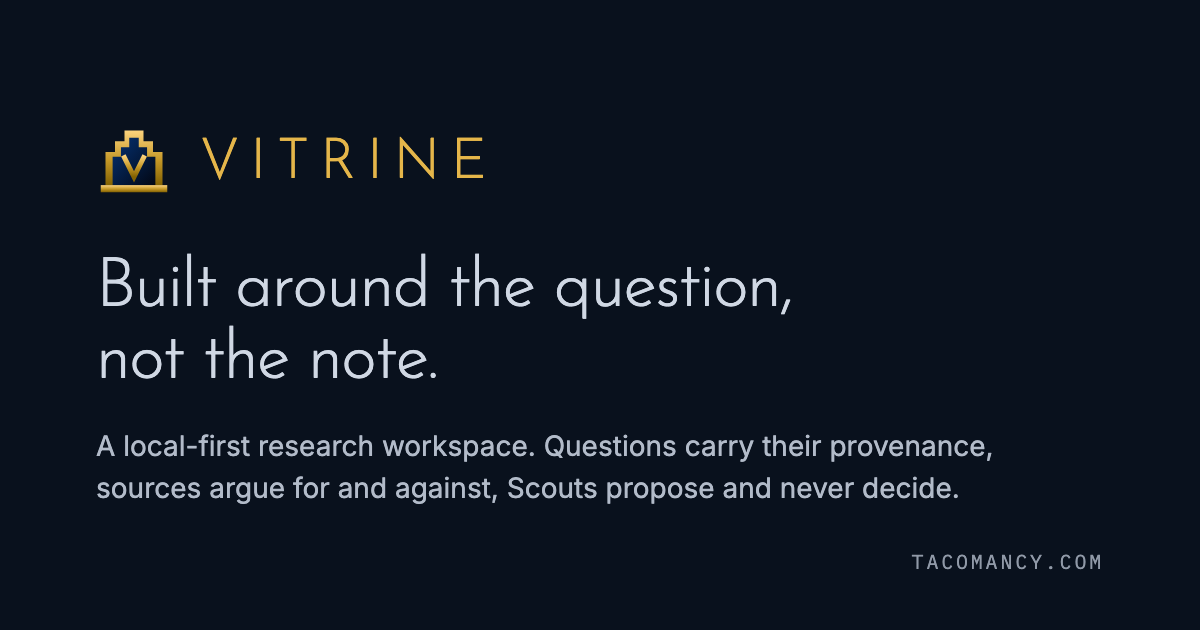
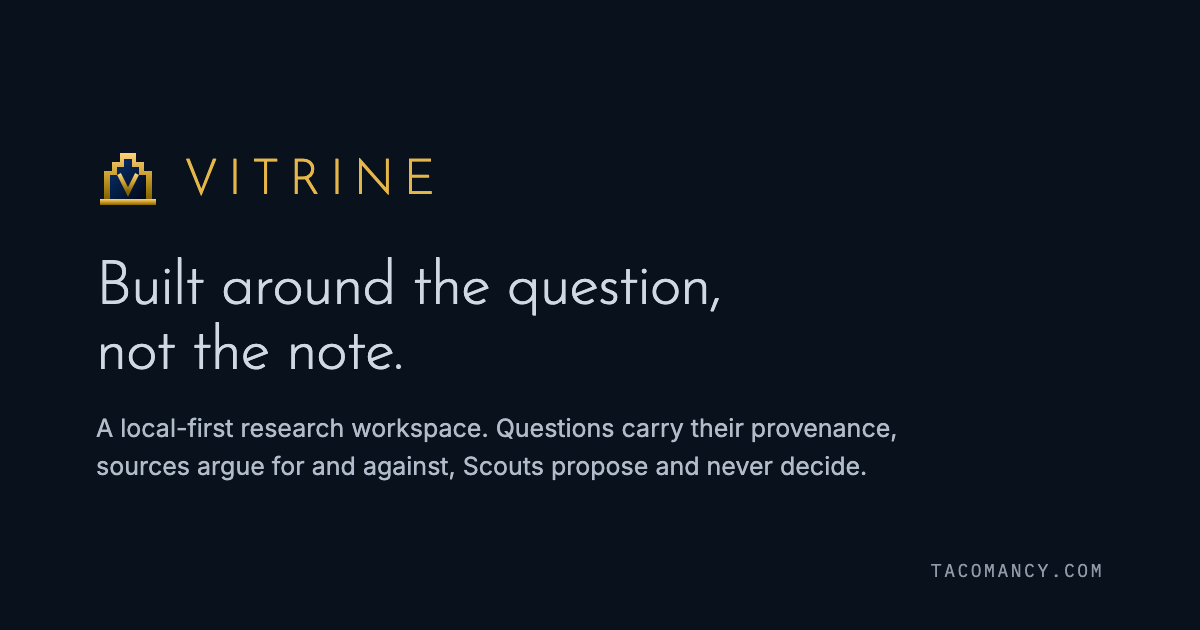
fix(site): address code-review findings on the polish pass
theme-color: the first tag whose media matches wins and an unmediated
tag always matches, so the light one now comes first; light mode never
reached it before.

Gallery pin: only a frame above the linked section re-pins it (one below
just lengthens the page), and focus moving into a prototype counts as
the reader taking over, since events inside an iframe never reach the
parent window.

Copy: the promises list now carries every CLAUDE.md invariant, "paper"
gives way to CONTEXT.md's vocabulary, and the session claim the prompts
doc leaves open is dropped. Lists with list-style: none carry
role="list" for WebKit. The social card sets its type and spacing from
the tokens; ADR 0004 records the one committed render.

Part of #115.

diff --git a/website/index.html b/website/index.html
@@ -5,9 +5,9 @@
   <meta name="viewport" content="width=device-width, initial-scale=1">
   <title>Vitrine</title>
   <meta name="description" content="Vitrine — a local-first research workspace built around the question rather than the note.">
-  <!-- Both modes: the browser chrome follows the page's ground (BRAND.md law 4, dark is the default). -->
-  <meta name="theme-color" content="#09111D">
+  <!-- Both modes: the browser chrome follows the page's ground. The first theme-color whose media matches wins, so light goes first and dark is the fallback (BRAND.md law 4). -->
   <meta name="theme-color" content="#F7F1E6" media="(prefers-color-scheme: light)">
+  <meta name="theme-color" content="#09111D">
   <meta property="og:type" content="website">
   <meta property="og:site_name" content="Vitrine">
   <meta property="og:title" content="Vitrine — built around the question, not the note">
@@ -16,7 +16,7 @@
   <meta property="og:image" content="https://tacomancy.com/social.png">
   <meta property="og:image:width" content="1200">
   <meta property="og:image:height" content="630">
-  <meta property="og:image:alt" content="The Vitrine mark and wordmark on ink.">
+  <meta property="og:image:alt" content="Vitrine: built around the question, not the note. A local-first research workspace.">
   <meta name="twitter:card" content="summary_large_image">
   <link rel="icon" href="brand/mark-case.svg" type="image/svg+xml">
   <link rel="preconnect" href="https://fonts.googleapis.com">
@@ -50,9 +50,9 @@
     <section class="section" aria-labelledby="lifecycle">
       <p class="eyebrow">The spine</p>
       <h2 id="lifecycle">A question has a lifecycle.</h2>
-      <p>Capture is two keystrokes from anywhere and records its provenance without asking: what you were reading or doing, the page, the date. A question that occurred to you on page 7 of a paper three weeks ago is a different object from a line in a notebook.</p>
+      <p>Capture is two keystrokes from anywhere and records its provenance without asking: what you were reading or doing, the page, the date. A question that occurred to you on page 7 of something you were reading three weeks ago is a different object from a line in a notebook.</p>
       <p>Most questions stay open indefinitely, and that is expected. Age is a sortable fact, never a warning. Nothing counts what you have not answered. When a question is worth pursuing, it is promoted along one of two paths.</p>
-      <dl class="paths">
+      <dl class="pair">
         <div>
           <dt>Answered by reading <span class="object">Research Question</span></dt>
           <dd>A working answer, supporting and opposing sources kept structurally apart, and a position history that reads as changing your mind rather than as a diff.</dd>
@@ -67,7 +67,7 @@
     <section class="section" aria-labelledby="inputs">
       <p class="eyebrow">Two inputs</p>
       <h2 id="inputs">Fed by what you read and what your Scouts find.</h2>
-      <dl class="paths">
+      <dl class="pair">
         <div>
           <dt>Reading <span class="object">Reader</span></dt>
           <dd>Highlights and margin notes live in the PDF as standard annotation objects, so any PDF tool can read them and a note can link to one specific passage. Annotate on an iPad in Preview; the app ingests what comes back and asks about anything it could not re-match rather than dropping it.</dd>
@@ -82,8 +82,9 @@
     <section class="section" aria-labelledby="promises">
       <p class="eyebrow">Non-negotiable</p>
       <h2 id="promises">What it promises.</h2>
-      <ul class="promises">
-        <li><strong>Local-first.</strong> The vault is plain Markdown on disk, and this app is not the only way to read it.</li>
+      <ul class="promises" role="list">
+        <li><strong>Local-first.</strong> The vault is plain Markdown on disk, and this app is not the only way to read it. The only thing that syncs is the PDF folder.</li>
+        <li><strong>Annotations live in the PDF.</strong> Standard annotation objects in the file, not rows in a database beside it.</li>
         <li><strong>Your own API keys.</strong> No credentials leave the device except to the provider you configured.</li>
         <li><strong>Agent output is always a proposal.</strong> Nothing an agent finds is written until you accept it.</li>
         <li><strong>No badges, no overdue states, no total counts.</strong> Curiosity is not debt.</li>
@@ -96,10 +97,10 @@
     <section class="section" aria-labelledby="surfaces">
       <p class="eyebrow">Eight surfaces, three dashboards</p>
       <h2 id="surfaces">Every one drawn before a line of code.</h2>
-      <p>Each was designed in its own session from a prompt written to stand alone, and each is pinned in the repository as frozen reference. They are all live in the gallery.</p>
+      <p>Each was designed from a prompt written to stand alone, and each is pinned in the repository as frozen reference. They are all live in the gallery.</p>
       <div class="surfaces">
         <!-- Numbered as the prototypes are (01–11); 00 is the shape, not a surface. -->
-        <ol class="surface-list" aria-label="Surfaces">
+        <ol class="surface-list" role="list" aria-label="Surfaces">
           <li><a href="prototypes/#question-inbox">Question Inbox</a></li>
           <li><a href="prototypes/#reader">Reader</a></li>
           <li><a href="prototypes/#research-question">Research Question</a></li>

diff --git a/Scripts/social-card.html b/Scripts/social-card.html
@@ -23,48 +23,48 @@
         display: flex;
         flex-direction: column;
         justify-content: center;
-        padding: 0 96px;
+        padding: 0 var(--space-9);
         box-sizing: border-box;
       }
       .lockup {
         display: flex;
         align-items: center;
-        gap: 28px;
-        margin-bottom: 56px;
+        gap: var(--space-5);
+        margin-bottom: var(--space-7);
       }
       .wordmark {
         font-family: var(--font-display);
         font-weight: 300;
-        font-size: 56px;
+        font-size: var(--text-5xl);
         letter-spacing: 0.2em;
         text-transform: uppercase;
         color: var(--color-accent);
         transform: translateY(5px);
       }
       h1 {
-        margin: 0 0 28px;
+        margin: 0 0 var(--space-5);
         font-family: var(--font-display);
         font-weight: 300;
-        font-size: 68px;
-        line-height: 1.06;
-        letter-spacing: -0.022em;
+        font-size: var(--text-6xl);
+        line-height: var(--leading-tight);
+        letter-spacing: var(--tracking-display);
         color: var(--color-fg);
-        max-width: 780px;
+        max-width: 720px;
       }
       p {
         margin: 0;
-        font-size: 28px;
-        line-height: 1.5;
+        font-size: var(--text-2xl);
+        line-height: var(--leading-normal);
         color: var(--color-fg-secondary);
         max-width: 900px;
       }
       .eyebrow {
         position: absolute;
-        right: 96px;
-        bottom: 56px;
+        right: var(--space-9);
+        bottom: var(--space-7);
         font-family: var(--font-mono);
-        font-size: 20px;
-        letter-spacing: 0.14em;
+        font-size: var(--text-lg);
+        letter-spacing: var(--tracking-caps);
         text-transform: uppercase;
         color: var(--color-fg-muted);
       }
@@ -74,8 +74,8 @@
     <div class="lockup">
       <img
         src="../docs/reference/branding/assets/mark-case.svg"
-        width="76"
-        height="76"
+        width="64"
+        height="64"
         alt=""
       /><span class="wordmark">Vitrine</span>
     </div>

diff --git a/website/site.css b/website/site.css
@@ -140,7 +140,7 @@ h1 {
 .button:active { background: var(--color-primary-active); }
 
 /* Landing body: one column of sections under the hero, separated by space
-   rather than rules. The two-up lists are floating surfaces with gutters. */
+   rather than rules. A pair is two floating surfaces with a gutter. */
 .section { padding-block: var(--space-7); }
 
 .section h2 {
@@ -159,28 +159,28 @@ h1 {
   color: var(--color-fg-secondary);
 }
 
-.paths {
+.pair {
   display: grid;
   grid-template-columns: repeat(auto-fit, minmax(17rem, 1fr));
   gap: var(--space-4);
   margin: var(--space-5) 0 0;
 }
 
-.paths > div {
+.pair > div {
   padding: var(--space-5);
   border-radius: var(--radius-lg);
   background: var(--color-bg-surface);
   box-shadow: var(--shadow-1);
 }
 
-.paths dt {
+.pair dt {
   margin: 0 0 var(--space-2);
   font-weight: 500;
   color: var(--color-fg);
 }
 
 /* The object a path lands on, set as data: a label beside the sentence. */
-.paths .object {
+.pair .object {
   display: block;
   margin-top: var(--space-1);
   font-family: var(--font-mono);
@@ -191,13 +191,14 @@ h1 {
   color: var(--color-fg-muted);
 }
 
-.paths dd {
+.pair dd {
   margin: 0;
   font-size: var(--text-sm);
   line-height: var(--leading-relaxed);
   color: var(--color-fg-secondary);
 }
 
+/* list-style: none loses list semantics in WebKit; the markup says role="list". */
 .promises {
   margin: var(--space-5) 0 0;
   padding: 0;
@@ -259,7 +260,7 @@ h1 {
 
 .dashboard-list dt { margin: 0; }
 .dashboard-list dd {
-  margin: 0 0 var(--space-3) calc(3ch);
+  margin: 0 0 var(--space-3) 3ch;
   font-family: var(--font-sans);
   font-size: var(--text-sm);
   letter-spacing: var(--tracking-normal);

diff --git a/website/prototypes/gallery.js b/website/prototypes/gallery.js
@@ -28,8 +28,15 @@
   function pin() { pinned = location.hash ? document.getElementById(location.hash.slice(1)) : null; }
   pin();
   window.addEventListener("hashchange", pin);
-  ["wheel", "touchstart", "keydown"].forEach((type) =>
+  // Any sign the reader has taken over. Events inside a prototype don't reach
+  // this window, but focus moving into one blurs it, so blur covers a click
+  // or tap on a tab.
+  ["wheel", "touchstart", "keydown", "blur"].forEach((type) =>
     window.addEventListener(type, () => { pinned = null; }, { passive: true }));
+  // Only a frame above the target moves it; one below just lengthens the page.
+  function precedes(frame) {
+    return pinned !== null && (frame.compareDocumentPosition(pinned) & Node.DOCUMENT_POSITION_FOLLOWING) !== 0;
+  }
 
   function follow(frame, iframe) {
     // Same origin, so the document is readable. Height follows the content
@@ -38,7 +45,7 @@
     if (!doc || !doc.documentElement) return;
     const measure = () => {
       frame.style.setProperty("--design-height", String(doc.documentElement.scrollHeight));
-      if (pinned) pinned.scrollIntoView();
+      if (precedes(frame)) pinned.scrollIntoView();
     };
     measure();
     if ("ResizeObserver" in window) new ResizeObserver(measure).observe(doc.documentElement);

diff --git a/website/prototypes/index.html b/website/prototypes/index.html
@@ -5,8 +5,8 @@
   <meta name="viewport" content="width=device-width, initial-scale=1">
   <title>Vitrine · Prototypes</title>
   <meta name="description" content="The twelve Claude Design prototypes behind Vitrine: the shape, eight surfaces, and three dashboards, live and interactive.">
-  <meta name="theme-color" content="#09111D">
   <meta name="theme-color" content="#F7F1E6" media="(prefers-color-scheme: light)">
+  <meta name="theme-color" content="#09111D">
   <meta property="og:type" content="website">
   <meta property="og:site_name" content="Vitrine">
   <meta property="og:title" content="Vitrine · Prototypes">
@@ -15,7 +15,7 @@
   <meta property="og:image" content="https://tacomancy.com/social.png">
   <meta property="og:image:width" content="1200">
   <meta property="og:image:height" content="630">
-  <meta property="og:image:alt" content="The Vitrine mark and wordmark on ink.">
+  <meta property="og:image:alt" content="Vitrine: built around the question, not the note. A local-first research workspace.">
   <meta name="twitter:card" content="summary_large_image">
   <link rel="icon" href="../brand/mark-case.svg" type="image/svg+xml">
   <link rel="preconnect" href="https://fonts.googleapis.com">

diff --git a/website/404.html b/website/404.html
@@ -5,8 +5,8 @@
   <meta name="viewport" content="width=device-width, initial-scale=1">
   <title>Vitrine · Not found</title>
   <meta name="robots" content="noindex">
-  <meta name="theme-color" content="#09111D">
   <meta name="theme-color" content="#F7F1E6" media="(prefers-color-scheme: light)">
+  <meta name="theme-color" content="#09111D">
   <!-- GitHub Pages serves this page at whatever path was missed, so every asset path is root-absolute. -->
   <link rel="icon" href="/brand/mark-case.svg" type="image/svg+xml">
   <link rel="preconnect" href="https://fonts.googleapis.com">

diff --git a/docs/adr/0004-public-site-built-from-website-on-github-pages.md b/docs/adr/0004-public-site-built-from-website-on-github-pages.md
@@ -19,4 +19,5 @@ The repository's GitHub Pages is already bound to the apex `tacomancy.com` (work
 - **−** The exports set questions and quotations in Source Serif 4, a role `BRAND.md` doesn't have. The site keeps it: the serif marks what a person wondered against what the machine reports, a distinction the prototypes drew on purpose and the app is expected to keep. This is the one place the site goes past the branding package; if the app adopts a serif, its choice and weights belong in `docs/architecture.md`.
 - **−** Fonts load from Google Fonts on the site. Whether the app bundles its fonts is decided with the stack (`docs/architecture.md` § Open, item 1), not here.
 - **−** The Pages deploy is not a merge gate; a broken site build is noticed after merge, from the Actions run, not before.
+- **−** One render is committed after all: `website/social.png`, the Open Graph image, which carries the mark and wordmark. It is not a copy of frozen material but a page rendered from it, and the Pages build has no browser to render it with. `Scripts/render-social-card.sh` regenerates it from `Scripts/social-card.html`, which draws on the tokens and mark in place; a brand change re-runs it by hand (#115).
 - The site's content beyond the landing page is not decided by this ADR.
